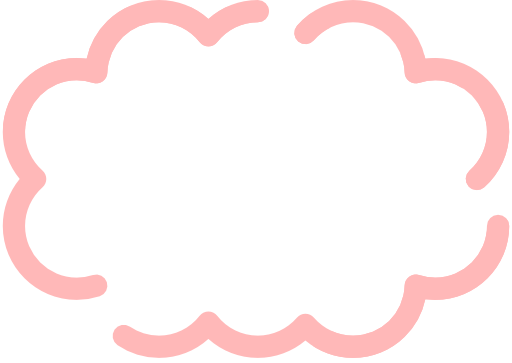
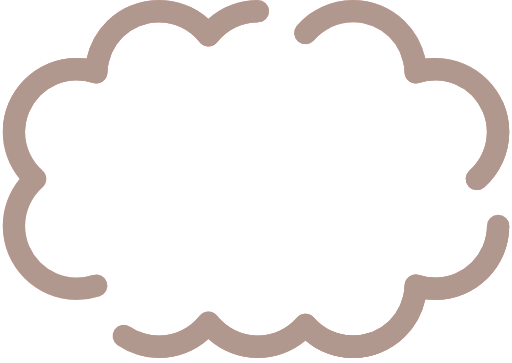
이미지 색상, 타이틀, 파비콘 수정

Changed region(s): [[0.0, 0.0, 0.5312, 0.8485], [0.2188, 0.5758, 1.0, 1.0], [0.5625, 0.0, 1.0, 0.5455]]

diff --git a/src/js/screens/diaryList/DiaryListContainer.js b/src/js/screens/diaryList/DiaryListContainer.js
@@ -50,61 +50,34 @@ const DiaryListContainer = () => {
             content: '오늘은 마음 실타래 일기를 써보자',
             wordCloud: 'image/wordCloud3.png',
             cover: 'image/yarn1.png',
+            date:'2020-11-16',
+            color:'#dbcbbe'
         },
         {
             title: '집가고싶다',
             content: '고양이가 최고양',
             wordCloud: 'image/wordCloud3.png',
             cover: 'image/yarn1.png',
+            date:'2020-11-16',
+            color:'#dbcbbe'
         },
         {
             title: '오늘의 일기',
             content: '오늘은 마음 실타래 일기를 써보자',
             wordCloud: 'image/wordCloud3.png',
             cover: 'image/yarn1.png',
+            date:'2020-11-16',
+            color:'#dbcbbe'
         },
         {
             title: '집가고싶다',
             content: '고양이가 최고양',
             wordCloud: 'image/wordCloud3.png',
             cover: 'image/yarn1.png',
+            date:'2020-11-16',
+            color:'#dbcbbe'
         },
-        {
-            title: '오늘의 일기',
-            content: '오늘은 마음 실타래 일기를 써보자',
-            wordCloud: 'image/wordCloud3.png',
-            cover: 'image/yarn1.png',
-        },
-        {
-            title: '집가고싶다',
-            content: '고양이가 최고양',
-            wordCloud: 'image/wordCloud3.png',
-            cover: 'image/yarn1.png',
-        },
-        {
-            title: '오늘의 일기',
-            content: '오늘은 마음 실타래 일기를 써보자',
-            wordCloud: 'image/wordCloud3.png',
-            cover: 'image/yarn1.png',
-        },
-        {
-            title: '집가고싶다',
-            content: '고양이가 최고양',
-            wordCloud: 'image/wordCloud3.png',
-            cover: 'image/yarn1.png',
-        },
-        {
-            title: '오늘의 일기',
-            content: '오늘은 마음 실타래 일기를 써보자',
-            wordCloud: 'image/wordCloud3.png',
-            cover: 'image/yarn1.png',
-        },
-        {
-            title: '집가고싶다',
-            content: '고양이가 최고양',
-            wordCloud: 'image/wordCloud3.png',
-            cover: 'image/yarn1.png',
-        },
+     
     ]
 
     // Slick Setting

diff --git a/src/css/diaryList.css b/src/css/diaryList.css
@@ -1,5 +1,14 @@
+h1 {
+  text-align: center;
+  font-family: 'Gugi',cursive;
+  color: #b0988e;
+  font-size: 35px;
+  text-shadow: 2px  1px 1px #eee7df;
+  margin: 5% 0%;
+}
 #diaryList {
-  height: auto;
+  height: 80vh;
+  display: contents;
   justify-content: center;
   padding: 5%;
   /* background-color: #ffcccc; */
@@ -14,9 +23,9 @@
   justify-content: center;
   background: url('/image/speech-bubble.png');
   background-position-x: center;
-  background-size: 60vh;
+  background-size: 70vh;
   background-repeat: no-repeat;
-  height: 35vh;
+  height: 50vh;
   
   /* background-image: url('../../public/image/speech-bubble.png'); */
 }
@@ -25,7 +34,7 @@
 }
 #diaryList .wordCloud .word_cloud{
   width: auto;
-  height: 20vh;
+  height: 30vh;
   padding: 10px;
   
 }
@@ -35,7 +44,8 @@
   width: 250px;
   height: 350px;
   /* margin: 25px 25px; */
-  margin-bottom: 100px;
+  margin-bottom: 30px;
+  margin-top: 20px;
 
 
 }
@@ -45,7 +55,7 @@
   margin: 25px 25px;
   padding: 25px 25px;
   text-align: center;
-  border: 2px solid #ffb8b8;
+  border: 2px solid #b0988e;
   background-color: white;
   border-radius: 25px;
   margin-top: 0%;
@@ -69,9 +79,10 @@
 #diaryList .book .book_cover .bookTitle{
   font-size: 20px;
   font-weight: bold;
-  color: #e98585;
+  color: #b0988e;
 }
 #diaryList .book .book_cover .bookContent{
+  color: #b0988e;
 }
 #diaryList .btnDiv{
   display: flex;
@@ -81,10 +92,12 @@
   width: 30%;
   height: 40px;
   border: none;
-  border-radius: 25px;
-  background-color: #e98585;
+  border-radius: 13px;
+  background-color: #b0988e;
+  margin-bottom: 20px;
   /* font-weight: bold; */
   color: white;
+  font-family: 'Gugi',cursive;
 }
 .modal-content {
   /* max-height: 800px; */

diff --git a/src/js/screens/diaryList/ModalForDetailView.js b/src/js/screens/diaryList/ModalForDetailView.js
@@ -2,21 +2,27 @@ import React, { useEffect } from 'react'
 import {  Button } from 'react-bootstrap'
 import  Modal from 'react-bootstrap/Modal'
 import 'bootstrap/dist/css/bootstrap.css'
+import '../../../css/detailViewModal.css'
 const ModalForDetailView = ({ diary, diaryModal, setDiaryViewModal, clickDiary }) => {
-    const content =diary[clickDiary === -1 ? 0 : clickDiary].content
-    const title =diary[clickDiary === -1 ? 0 : clickDiary].title
+    const page =diary[clickDiary === -1 ? 0 : clickDiary]
+    // const title =diary[clickDiary === -1 ? 0 : clickDiary].title
     
   
     return (
         <>
             <Modal id="diaryModal" show={diaryModal} onHide={() => setDiaryViewModal(false)} size="lg" animation={true} aria-labelledby="contained-modal-title-vcenter" centered>
                 <Modal.Header closeButton style={{ margin: '2rem' }}>
-                    <Modal.Title id="contained-modal-title-vcenter">{title}</Modal.Title>
+                    <Modal.Title id="contained-modal-title-vcenter">
+                    <div className="viewTitle">제목: {page.title}</div>
+                    <div className="viewDate">작성일: {page.date}</div>
+                    </Modal.Title>
                 </Modal.Header>
                 <Modal.Body
                     dangerouslySetInnerHTML={{
-                        __html: content
+                        __html: page.content,
                     }}>
+                        {/* <div></div> */}
+                    {/* <img className="word_cloud"  src={page.wordCloud} /> */}
                         
                     </Modal.Body>
                 <Modal.Footer>

diff --git a/src/js/screens/calendar/CalendarPresenter.js b/src/js/screens/calendar/CalendarPresenter.js
@@ -1,7 +1,7 @@
 import React from 'react'
 import Calendar from 'react-calendar'
 import 'react-calendar/dist/Calendar.css'
-const CalendarPresenter = ({ value, onChange }) => {
+const CalendarPresenter = ({ value, onChange, diary }) => {
     return (
         <>
             <h1>감정 캘린더</h1>
@@ -11,7 +11,7 @@ const CalendarPresenter = ({ value, onChange }) => {
                 </div>
                 <div className="calendar right"> 
                     <Calendar
-                        className={"emotionCalendar"} 
+                        className={diary.color} 
                         onChange={onChange} value={value}
                         onClickDay={()=>{console.log('하루를 클릭함')}} 
                         locale={'en-US'}/>

diff --git a/src/js/screens/calendar/CalendarContainer.js b/src/js/screens/calendar/CalendarContainer.js
@@ -3,11 +3,21 @@ import CalendarPresenter from './CalendarPresenter'
 import "../../../css/calendar.css"
 const CalendarContainer = () => {
     const [value, onChange] = useState(new Date());
+    const diary = [
+        {
+            title: '오늘의 일기',
+            content: '오늘은 마음 실타래 일기를 써보자',
+            wordCloud: 'image/wordCloud3.png',
+            cover: 'image/yarn1.png',
+            date:'2020-11-16',
+            color:'#dbcbbe'
+        }]
     return (
         <>
             <CalendarPresenter 
                 value={value}
                 onChange={onChange}
+                diary={diary}
             />
         </>
     )

diff --git a/src/js/screens/diaryList/DiaryListPresenter.js b/src/js/screens/diaryList/DiaryListPresenter.js
@@ -30,7 +30,7 @@ const DiaryListPresenter = ({ diary, clickDiary, changeDiary, diaryListSlickSett
                                     onClick={(e) => {
                                         changeDiary(e)
                                     }}>
-                                    <img src={info.cover} width="150px" height="200px"></img>
+                                    <img src={info.cover} width="80vw" height="auto"></img>
                                     <br />
                                     <font className="bookTitle">{info.title}</font>
                                     <br />

diff --git a/public/index.html b/public/index.html
@@ -24,7 +24,7 @@
       work correctly both with client-side routing and a non-root public URL.
       Learn how to configure a non-root public URL by running `npm run build`.
     -->
-    <title>React App</title>
+    <title>마음실타래</title>
   </head>
   <body>
     <noscript>You need to enable JavaScript to run this app.</noscript>

diff --git a/src/css/detailViewModal.css b/src/css/detailViewModal.css
@@ -1,0 +1,11 @@
+.modal-content {
+    /* max-height: 800px; */
+    height: 80vh;
+    width: 50vw;
+  }
+  .modal-body {
+    padding-top: 20px;
+    text-align: center;
+    overflow-y: scroll;
+    max-height: auto;
+  }
